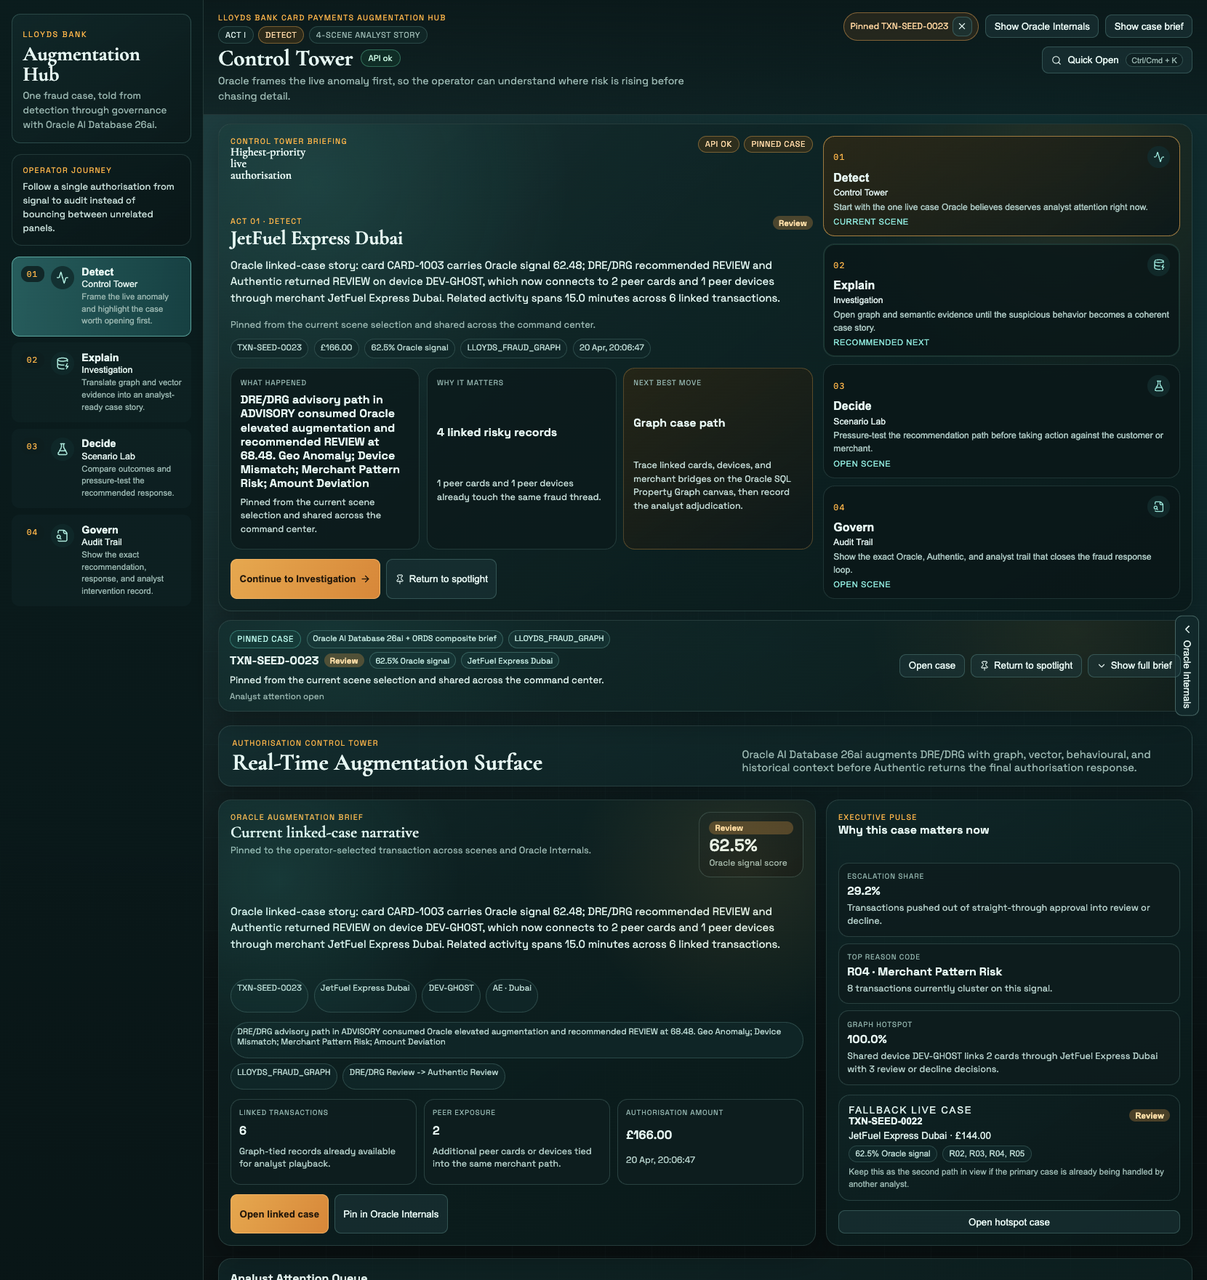
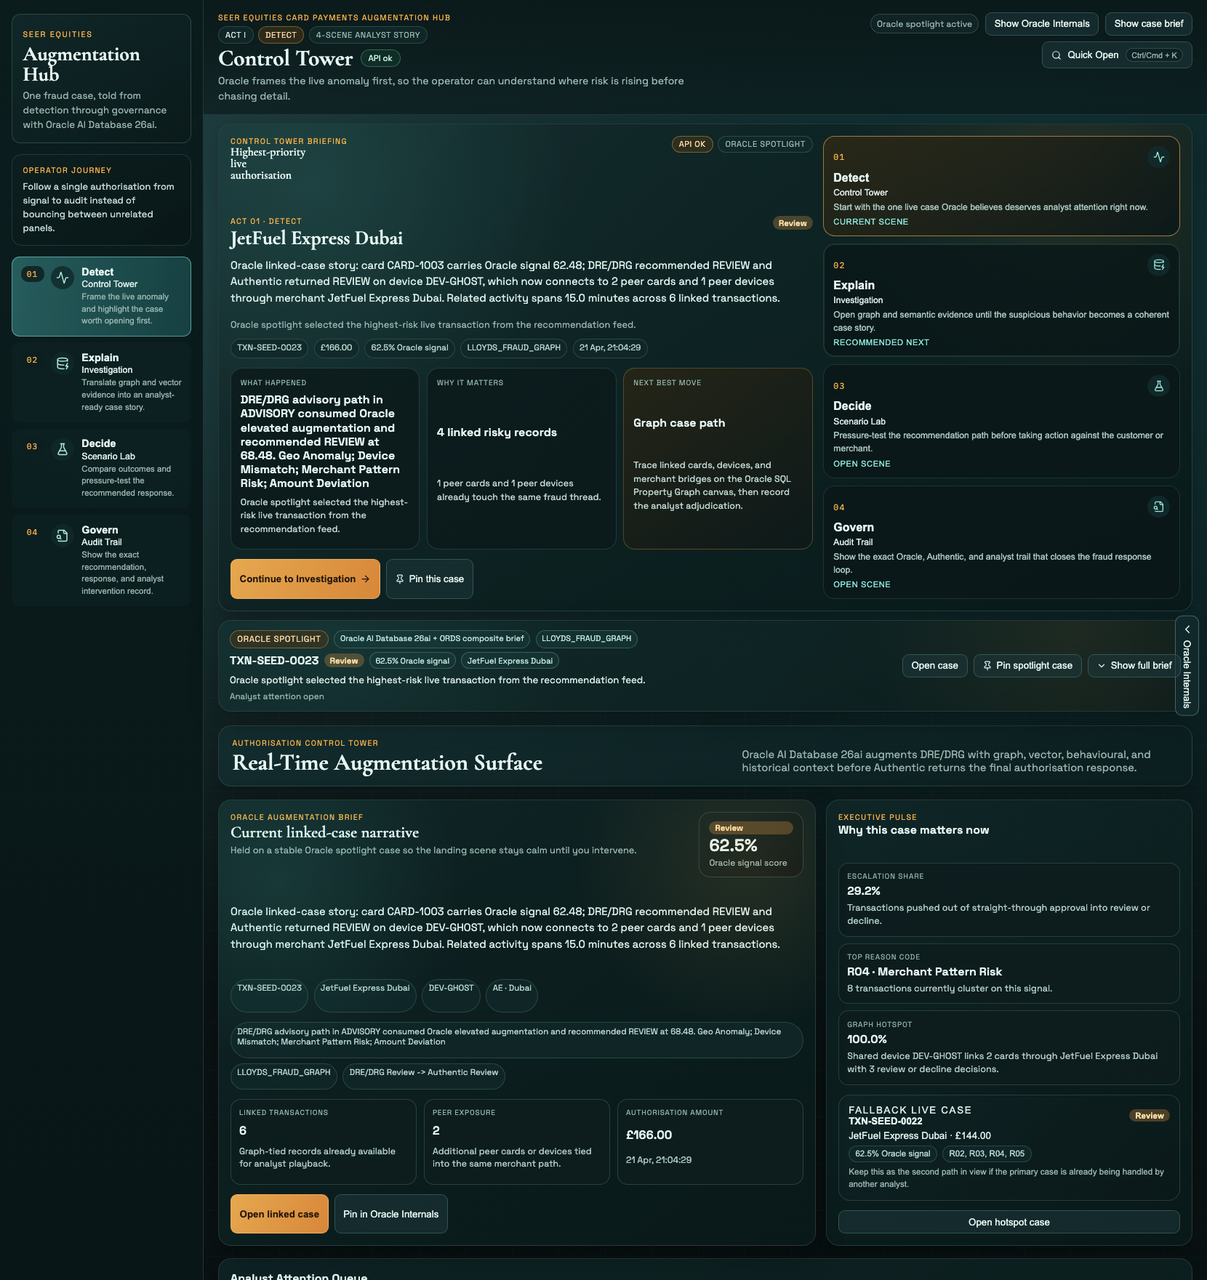
Updated Seer Equities story

diff --git a/oracle-augmented-card-authorisation/guide/download-livestack/download-livestack.md b/oracle-augmented-card-authorisation/guide/download-livestack/download-livestack.md
@@ -1,15 +1,15 @@
-# Download the Augmented Bank LiveStack
+# Download the Seer Equities LiveStack
 
 ## Introduction
 
-This lab shows how to run the LiveStack in your own environment using the portable stack package and Podman Compose.
+This lab shows how to run the Seer Equities LiveStack in your own environment using the portable stack package and Podman Compose.
 
 Estimated Time: 30 minutes
 
 ### Objectives
 
 In this lab, you will:
-- Download the portable package.
+- Download the portable Seer Equities package.
 - Extract it into a clean local working directory.
 - Create the local runtime environment file.
 - Start the full stack with Podman Compose.
@@ -18,16 +18,16 @@ In this lab, you will:
 ## Task 1: Download the portable package
 
 1. Download the package from:
-    [augmented-bank-livestack.zip](https://objectstorage.us-ashburn-1.oraclecloud.com/p/uDxOqph2yWR1SqN7FFs00ZL2NFTdYXpA2HTqD-RAJwej_J93bmZh5LoRaxkR-KKQ/n/c4u04/b/livelabsfiles/o/livestack/lloyds-bank-livestack.zip)
+    [seer-equities-livestack.zip](https://objectstorage.us-ashburn-1.oraclecloud.com/p/bsMYTI4pvF7BoZ4zte8oL9E5-i8k1wO3ZQiuzffuBcwolnwF-VDFSuBidpYnZoAY/n/c4u04/b/livelabsfiles/o/livestack/seer-equities-stack.zip)
 
 2. Save the file to your machine.
 
 Expected result:
-- You have `augmented-bank-livestack.zip` available on your machine.
+- You have `seer-equities-livestack.zip` available on your machine.
 
 ## Task 2: Move the package and prepare environment settings
 
-> **Note:** Do not extract or run the stack from your `Downloads` folder. Create a new empty working directory and move `augmented-bank-livestack.zip` there first. This package extracts its files directly into the current folder, so a clean directory keeps the LiveStack contents organized and avoids Podman issues caused by working from `Downloads`.
+> **Note:** Do not extract or run the stack from your `Downloads` folder. Create a new empty working directory and move `seer-equities-livestack.zip` there first. This package extracts its files directly into the current folder, so a clean directory keeps the LiveStack contents organized and avoids Podman issues caused by working from `Downloads`.
 
 ### For macOS or Linux
 
@@ -36,28 +36,28 @@ Expected result:
 2. Create a new working directory outside of `Downloads`:
     ```bash
     <copy>
-    mkdir -p ~/livestack-augmented-bank
+    mkdir -p ~/livestack-seer-equities
     </copy>
     ```
 
 3. Move into the new working directory:
     ```bash
     <copy>
-    cd ~/livestack-augmented-bank
+    cd ~/livestack-seer-equities
     </copy>
     ```
 
 4. Move the downloaded package from `Downloads` into this directory:
     ```bash
     <copy>
-    mv ~/Downloads/augmented-bank-livestack.zip .
+    mv ~/Downloads/seer-equities-livestack.zip .
     </copy>
     ```
 
 5. Extract the package:
     ```bash
     <copy>
-    unzip augmented-bank-livestack.zip
+    unzip seer-equities-livestack.zip
     </copy>
     ```
 
@@ -75,28 +75,28 @@ Expected result:
 2. Create a new working directory outside of `Downloads`:
     ```powershell
     <copy>
-    New-Item -ItemType Directory -Force -Path "$HOME\livestack-augmented-bank" | Out-Null
+    New-Item -ItemType Directory -Force -Path "$HOME\livestack-seer-equities" | Out-Null
     </copy>
     ```
 
 3. Move into the new working directory:
     ```powershell
     <copy>
-    Set-Location "$HOME\livestack-augmented-bank"
+    Set-Location "$HOME\livestack-seer-equities"
     </copy>
     ```
 
 4. Move the downloaded package from `Downloads` into this directory:
     ```powershell
     <copy>
-    Move-Item "$HOME\Downloads\augmented-bank-livestack.zip" .
+    Move-Item "$HOME\Downloads\seer-equities-livestack.zip" .
     </copy>
     ```
 
 5. Extract the package:
     ```powershell
     <copy>
-    tar -xf .\augmented-bank-livestack.zip
+    tar -xf .\seer-equities-livestack.zip
     </copy>
     ```
 
@@ -177,7 +177,7 @@ Expected result:
 Expected result:
 - `db`, `ords`, `ollama`, and `app` are running.
 - The health endpoint returns `status: ok`.
-- The Augmented Bank UI loads locally.
+- The Seer Equities UI loads locally.
 
 ## Task 4: Stop the stack when finished
 
@@ -193,7 +193,8 @@ Expected result:
 
 ## Task 5: Why this matters?
 
-A portable LiveStack runbook turns this guide into something teams can reproduce instead of just read. By shipping Augmented Bank as a Podman Compose package with a clear startup flow, you reduce environment drift, make scene validation repeatable, and give teams a practical way to explore the same Oracle-backed experience on macOS, Linux, and Windows.
+A portable LiveStack runbook turns this guide into something teams can reproduce instead of just read. By shipping Seer Equities as a Podman Compose package with a clear startup flow, you reduce environment drift, make scene validation repeatable, and give teams a practical way to explore the same Oracle-backed experience on macOS, Linux, and Windows.
+
 
 ## Credits & Build Notes
 

diff --git a/oracle-augmented-card-authorisation/guide/scene-01-authorisation-control-tower/scene-01-authorisation-control-tower.md b/oracle-augmented-card-authorisation/guide/scene-01-authorisation-control-tower/scene-01-authorisation-control-tower.md
@@ -2,14 +2,14 @@
 
 ## Introduction
 
-This scene introduces the shell as a guided operator story, not a dashboard collection. You will open the Control Tower, review the single live case Oracle wants the operator to handle first, and use the briefing surfaces to carry that same case into the rest of the app.
+This scene introduces the Seer Equities shell as a guided operator story, not a dashboard collection. You will open the Control Tower, review the single live case Oracle wants the operator to handle first, and use the briefing surfaces to carry that same case into the rest of the app.
 
 Estimated Time: 10 minutes
 
 ### Objectives
 
 In this lab, you will:
-- Open the shell and confirm the stage-based navigation.
+- Open the Seer Equities shell and confirm the stage-based navigation.
 - Identify the primary live case, fallback case, and analyst queue.
 - Expand the active case brief and hand the same transaction into the next scene.
 

diff --git a/oracle-augmented-card-authorisation/guide/introduction/introduction.md b/oracle-augmented-card-authorisation/guide/introduction/introduction.md
@@ -8,7 +8,7 @@ In this LiveStack, Oracle AI Database 26ai turns a live authorisation into one c
 
 Estimated Workshop Time: 1 hour 20 minutes
 
-![Augmented Bank Control Tower showing the case-led story shell, active case briefing, and operator journey](images/lloyds-control-tower.png)
+![Seer Equities Control Tower showing the case-led story shell, active case briefing, and operator journey](images/lloyds-control-tower.png)
 
 ### Objectives
 

diff --git a/oracle-augmented-card-authorisation/guide/conclusion/conclusion.md b/oracle-augmented-card-authorisation/guide/conclusion/conclusion.md
@@ -2,7 +2,7 @@
 
 ## Introduction
 
-This closing lab summarizes what you validated across the Bank scenes and how to continue from a stable, Oracle-backed LiveStack baseline.
+This closing lab summarizes what you validated across the Seer Equities scenes and how to continue from a stable, Oracle-backed LiveStack baseline.
 
 Estimated Time: 6 minutes
 
